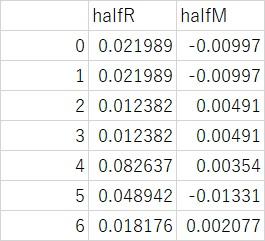
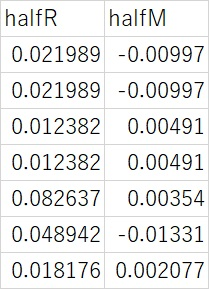
ビーク値処理機能以下

Changed region(s): [[0.0574, 0.0, 1.0, 1.0], [0.0287, 0.029, 0.2871, 0.1162]]

diff --git a/templates/csv.html b/templates/csv.html
@@ -4,19 +4,20 @@
 <div class="margin">
   <h2>概要</h2>
   <p>
-      時刻歴データからピーク値計算後、レインフロー計数を行う機能を提供する。原理の詳細は文献[1]を参照のこと。計算結果については、ユーザの責任のもとに利用して下さい。<br>
+    ピーク値データ、もしくは時刻歴データからピーク値計算後、レインフロー計数を行う機能を提供する。原理の詳細は文献[1]を参照のこと。計算結果については、ユーザの責任のもとに利用して下さい。<br>
       [1]岡村弘之，板垣　浩著「強度の統計的取り扱い」，培風館， 4.3疲労の安全寿命<br>
-      <font color="red">[注意]</font>上記文献[1]に記載されているヒステリシスループ法のアルゴリズムは、実質レインフロー法の評価結果と同じ結果を与えますが、厳密に見ると少しだけ異なっていました。しかし、ヒステリシスループ法のアルゴリズムを一か所変更するだけで、完全にレインフロー法と合致することを最近見出しました。ここで、提供するアルゴリズムは完全にレインフロー法に合致するはずです(2021.9.23)。
+      <font color="red">[注意]</font>文献[1]に記載されているヒステリシスループ法のアルゴリズムは、実質レインフロー法の評価結果と同じ結果を与えますが、厳密に見ると少しだけ異なっていました。しかし、ヒステリシスループ法のアルゴリズムを一か所変更するだけで、完全にレインフロー法と合致することを最近見出しました。ここで、提供するアルゴリズムは完全にレインフロー法に合致するはずです(2021.9.23)。
   </p>
   <h2>利用法</h2>
-  <p>最下部の<b>計算実行</b>のセクションで、波形計数処理を行う手順を以下に示す。まずは、次の<b>サンプルデータ</b>セクションの時刻歴データwave.csvをダウンロード後に、そのデータについて動作確認をして下さい。</p>
+  <p>最下部の<b>計算実行</b>のセクションで、波形計数処理を行う手順を以下に示す。まずは、次の<b>サンプルデータ</b>セクションでの動作確認をしてから利用して下さい。</p>
   <ol>
-      <li>[ファイルの選択]ボタンを押し、時刻歴データのcsvファイルを選択する。</li>
+    　<li>入力ファイルが時刻歴データのときには、Waveのラジオボタン、ピーク値データのときにはPeakのラジオボタンを押す。デフォールトはWave。</li>
+      <li>[ファイルの選択]ボタンを押し、データのcsvファイルを選択する。</li>
       <li>[送信]ボタンを押すことによりデータが転送され、レインフロー計数が行なわれる。</li>
-      <li>計算終了後にメッセージとともに、二つのボタンが出てくる。[半波+平均]ボタンにより、results.csvがダウンロードされる。[ピーク値]ボタンによりpeak.csvがダウンロードされる。results.csvには、評価された半波とその平均値のデータ群が、peak.csvには、評価されたピーク値列が出力される。</li>
+      <li>計算終了後にメッセージとともに、新たなボタンが出てくる。[半波+平均]ボタンにより、results.csvがダウンロードされる。入力ファイルが時刻歴データの場合には、[ピーク値]ボタンも出現し、ボタンを押すことによりpeak.csvがダウンロードされる。results.csvには、評価された半波とその平均値のデータ群が、peak.csvには、評価されたピーク値列が出力される。</li>
   </ol>
   <h2>サンプルデータ</h2>
-  <p>下記の[サンプルデータ]ボタンをクリックするとサンプルの時刻歴データwave.csvがダウンロードされます。これを用いて上記の<b>利用法</b>で解析した結果がresults.csv,peak.csvと一致することを確認して下さい。</p>
+  <p>下記の時刻歴の[サンプルデータ]ボタンをクリックするとサンプルデータwave.csvがダウンロードされます。これを用いて解析した結果がresults.csv,peak.csvと一致することを確認して下さい。</p>
   <form method="post" action="{{ url_for('sample') }}" enctype="multipart/form-data">
     <input type="submit" value="サンプルデータ" name="action">
   </form>
@@ -33,7 +34,11 @@
     </tbody>
   </table>
   <h2>計算実行</h2>
-<form method="post" action="{{ url_for('show_csv') }}" enctype="multipart/form-data">
+  <p>入力ファイルの内容を選択して下さい</p>
+
+<form method="post" action="{{ url_for('show_csv') }}" class="form-inline" enctype="multipart/form-data">
+  <input type="radio" id="wave" name="radio" value="Wave" checked><label for="wave">Wave</label>
+  <input type="radio" id="peak" name="radio" value="Peak"><label for="peak">Peak</label><br>
   <input type="file" id="send_data" name="send_data">
   <input type="submit" value="送信">
 </form>
@@ -43,7 +48,9 @@
     <dt>{{ result }}<dt>
       <form action="{{ url_for('results') }}" method="post">
         <input type="submit" value="半波+平均" name="action">
-        <input type="submit" value="ピーク値" name="action">
+        {% if name=='Wave' %}
+          <input type="submit" value="ピーク値" name="action">
+        {% endif %}
       </form>
       </dl>
   {% endif %}

diff --git a/rainflow.py b/rainflow.py
@@ -44,17 +44,24 @@ def show_csv():
                 ii+=1
                 if ii!=1:
                     wave.append(float(co[0][0]))            
-
+            
             hl=hloop.HL()
-            hl.SetWave(wave)
-            hl.Calc()
-            halfR,halfM=hl.GetRes()
-            peak=hl.GetPeak()
+            name = request.form.get('radio')
+            print(name)
+            if name=='Wave':
+                hl.SetWave(wave)
+                hl.Calc()
+                halfR,halfM=hl.GetRes()
+                peak=hl.GetPeak()
+            else:
+                hl.SetPeak(wave)
+                halfR,halfM=hl.hloop()
             dd=pd.DataFrame({'halfR':halfR,'halfM':halfM})
-            dd.to_csv('results/results.csv')
-            dpeak=pd.DataFrame({'peak':peak})
-            dpeak.to_csv('results/peak.csv')
-            return render_template('csv.html', result='計算が終了しました。結果をダウンロードして下さい。')
+            dd.to_csv('results/results.csv',index=False)
+            if name=='peak':
+                dpeak=pd.DataFrame({'peak':peak})
+                dpeak.to_csv('results/peak.csv',index=False)
+            return render_template('csv.html', result='計算が終了しました。結果をダウンロードして下さい。',name=name)
 
 @app.route('/uploads/<filename>')
 def uploaded_file(filename):
@@ -87,8 +94,8 @@ def sample():
         path = os.path.abspath(__file__)[:-7]
         if request.form['action']=='サンプルデータ':
             return send_from_directory(
-                app.config['RESULTS_FOLDER'],
-                'wave.csv',
+                directory=app.config['RESULTS_FOLDER'],
+                path='wave.csv',
                 as_attachment=True,
                 attachment_filename='wave.csv',
             )
